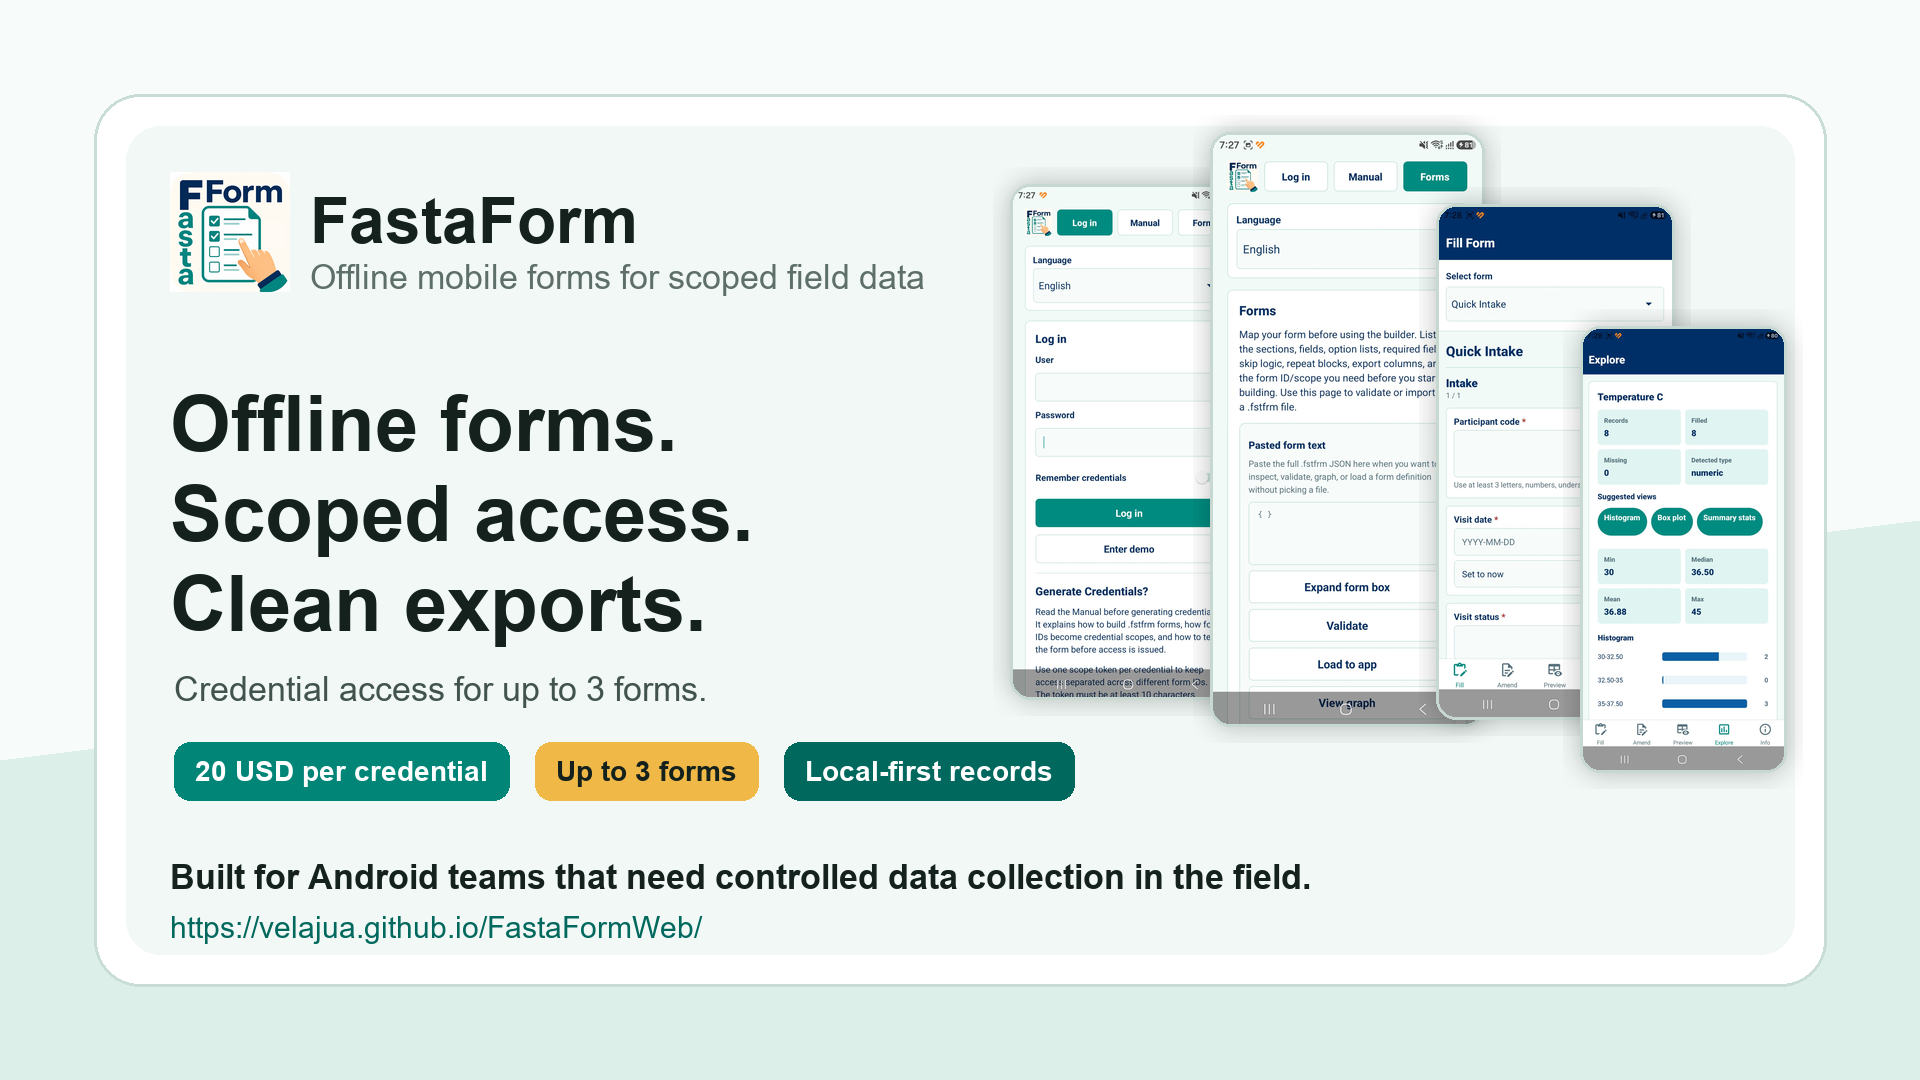
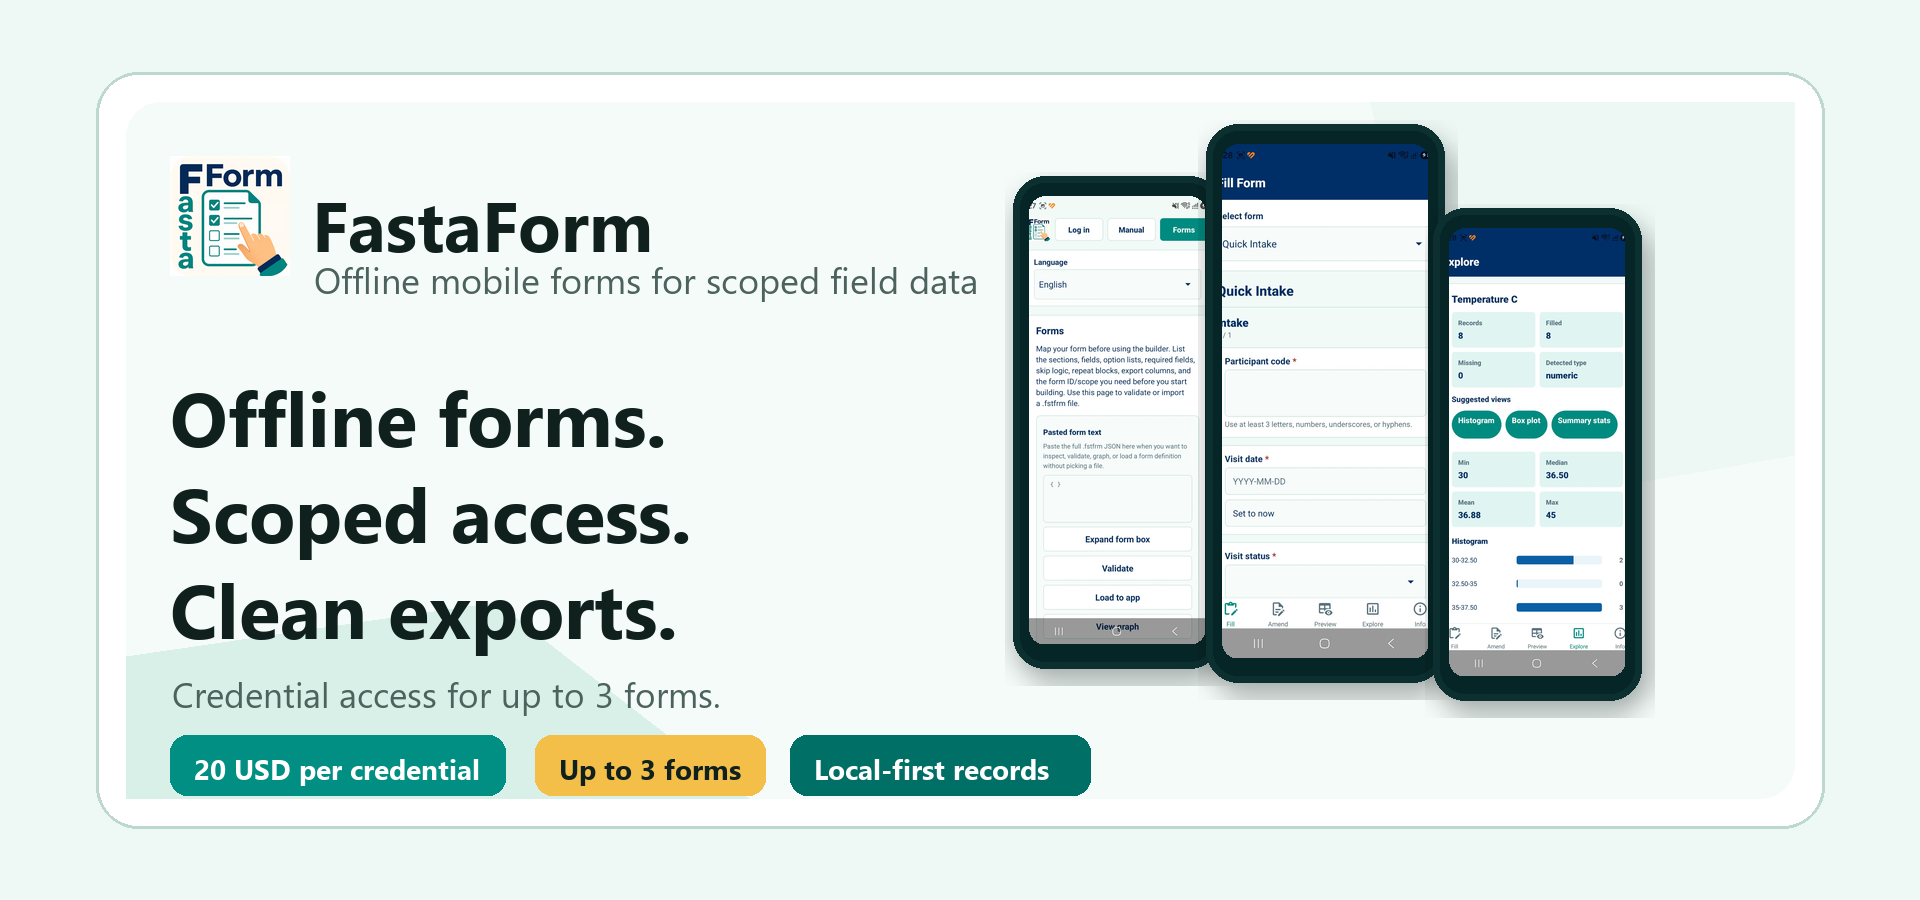
Add files via upload

Changed region(s): [[0.0625, 0.0622, 0.9375, 0.9333]]

diff --git a/styles.css b/styles.css
@@ -95,16 +95,17 @@ nav a:hover,
 
 .hero {
   display: grid;
-  gap: 36px;
-  grid-template-columns: minmax(0, 1fr) minmax(300px, 520px);
+  gap: 34px;
+  grid-template-columns: 1fr;
   margin: 0 auto;
-  max-width: 1180px;
+  max-width: 1280px;
   min-height: calc(100vh - 78px);
-  padding: 70px 24px 44px;
+  padding: 64px 24px 44px;
 }
 
 .hero-copy {
   align-self: center;
+  max-width: 1180px;
 }
 
 .eyebrow {
@@ -124,10 +125,10 @@ p {
 }
 
 h1 {
-  font-size: clamp(2.7rem, 7vw, 5.7rem);
+  font-size: clamp(3rem, 6.2vw, 6.7rem);
   line-height: 0.98;
   margin-bottom: 22px;
-  max-width: 820px;
+  max-width: 1180px;
 }
 
 h2 {
@@ -218,9 +219,10 @@ dd {
 .phone-strip {
   align-items: end;
   display: grid;
-  gap: 12px;
+  gap: 18px;
   grid-template-columns: repeat(3, minmax(0, 1fr));
   overflow: hidden;
+  width: min(100%, 980px);
 }
 
 .phone-strip img,

diff --git a/index.html b/index.html
@@ -67,7 +67,7 @@
           src="assets/web-overview-card.png"
           alt="FastaForm overview card showing offline forms, scoped access, clean exports, and app screens"
           width="1920"
-          height="1080"
+          height="900"
         >
       </section>
 
@@ -178,7 +178,7 @@
           </label>
           <div class="calculator-result">
             <span>Estimated FastaForm cost</span>
-            <strong id="fastaformCost">$240</strong>
+            <strong id="fastaformCost">$20</strong>
           </div>
         </div>
 
@@ -193,31 +193,31 @@
             <div role="cell">SurveyCTO Basic</div>
             <div role="cell">$225/month annual subscription; 100 forms, unlimited users/devices, 5,000 monthly submissions</div>
             <div role="cell" data-cost>$2,700</div>
-            <div role="cell" data-difference>$2,460 more</div>
+            <div role="cell" data-difference>$2,680 more</div>
           </div>
           <div class="table-row" role="row" data-monthly-user-price="30" data-min-users="3">
             <div role="cell">SurveyMonkey Team Advantage</div>
             <div role="cell">$30/user/month, starting at 3 users, billed annually</div>
             <div role="cell" data-cost>$4,320</div>
-            <div role="cell" data-difference>$4,080 more</div>
+            <div role="cell" data-difference>$4,300 more</div>
           </div>
           <div class="table-row" role="row" data-monthly-user-price="92" data-min-users="3">
             <div role="cell">SurveyMonkey Team Premier</div>
             <div role="cell">$92/user/month, starting at 3 users, billed annually</div>
             <div role="cell" data-cost>$13,248</div>
-            <div role="cell" data-difference>$13,008 more</div>
+            <div role="cell" data-difference>$13,228 more</div>
           </div>
           <div class="table-row" role="row" data-flat-monthly-price="59" data-included-users="3">
             <div role="cell">Typeform Plus</div>
             <div role="cell">$59/month, 3 users, 1,000 responses/month included</div>
             <div role="cell" data-cost>$2,832</div>
-            <div role="cell" data-difference>$2,592 more</div>
+            <div role="cell" data-difference>$2,812 more</div>
           </div>
           <div class="table-row" role="row" data-flat-monthly-price="39" data-included-users="1" data-included-forms="50">
             <div role="cell">Jotform Silver</div>
             <div role="cell">$39/month billed annually, 1 user, 50 forms, 2,500 submissions/month</div>
             <div role="cell" data-cost>$5,616</div>
-            <div role="cell" data-difference>$5,376 more</div>
+            <div role="cell" data-difference>$5,596 more</div>
           </div>
         </div>
 

diff --git a/pricing.js b/pricing.js
@@ -17,8 +17,8 @@ function blockCount(value, included) {
   return Math.ceil(safeValue / safeIncluded);
 }
 
-export function estimateFastaFormCost({ users, forms }) {
-  return positiveInteger(users) * blockCount(forms, FASTAFORM_FORMS_PER_CREDENTIAL) * FASTAFORM_CREDENTIAL_PRICE;
+export function estimateFastaFormCost({ forms }) {
+  return blockCount(forms, FASTAFORM_FORMS_PER_CREDENTIAL) * FASTAFORM_CREDENTIAL_PRICE;
 }
 
 export function estimateSubscriptionCost({